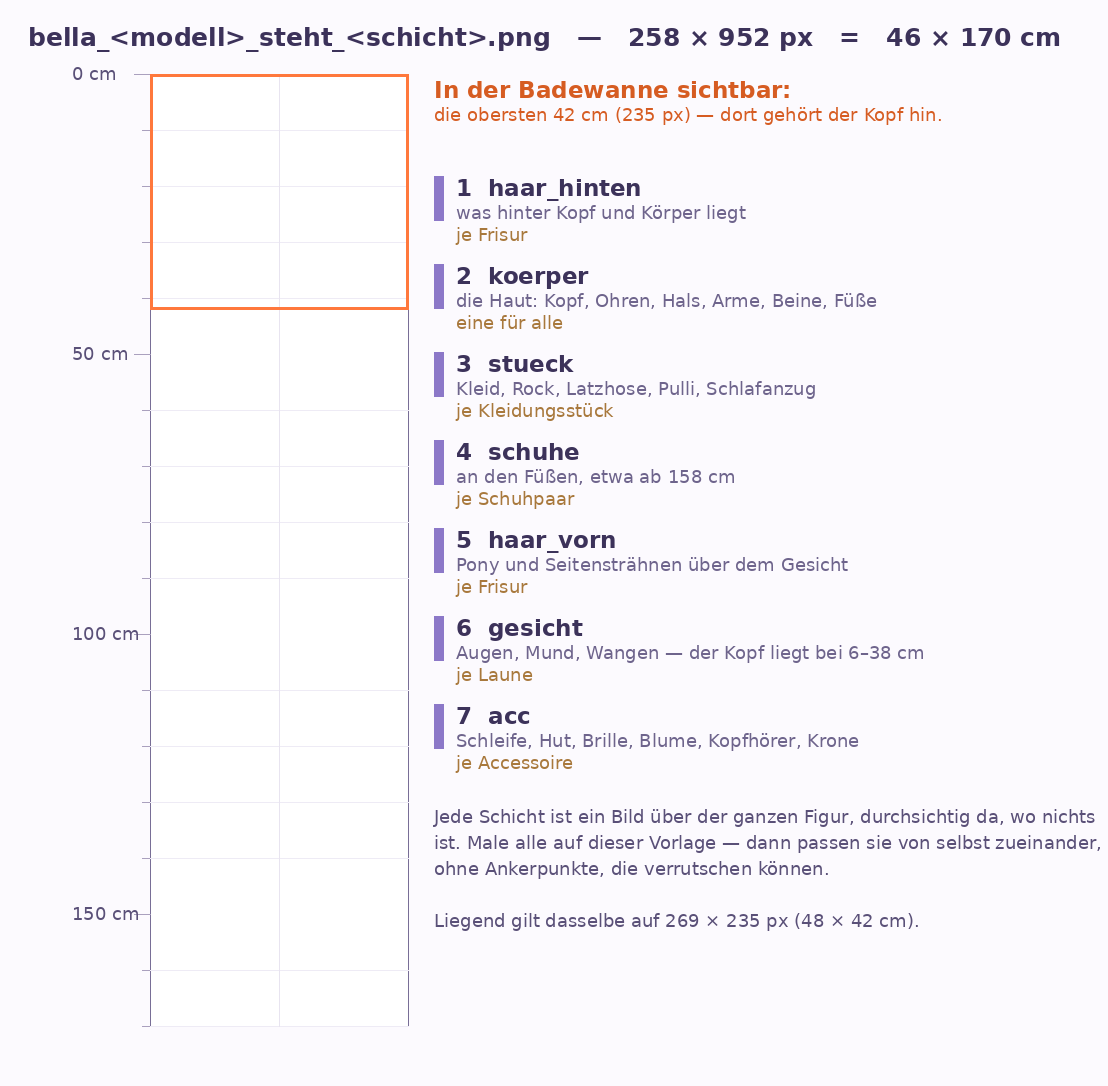
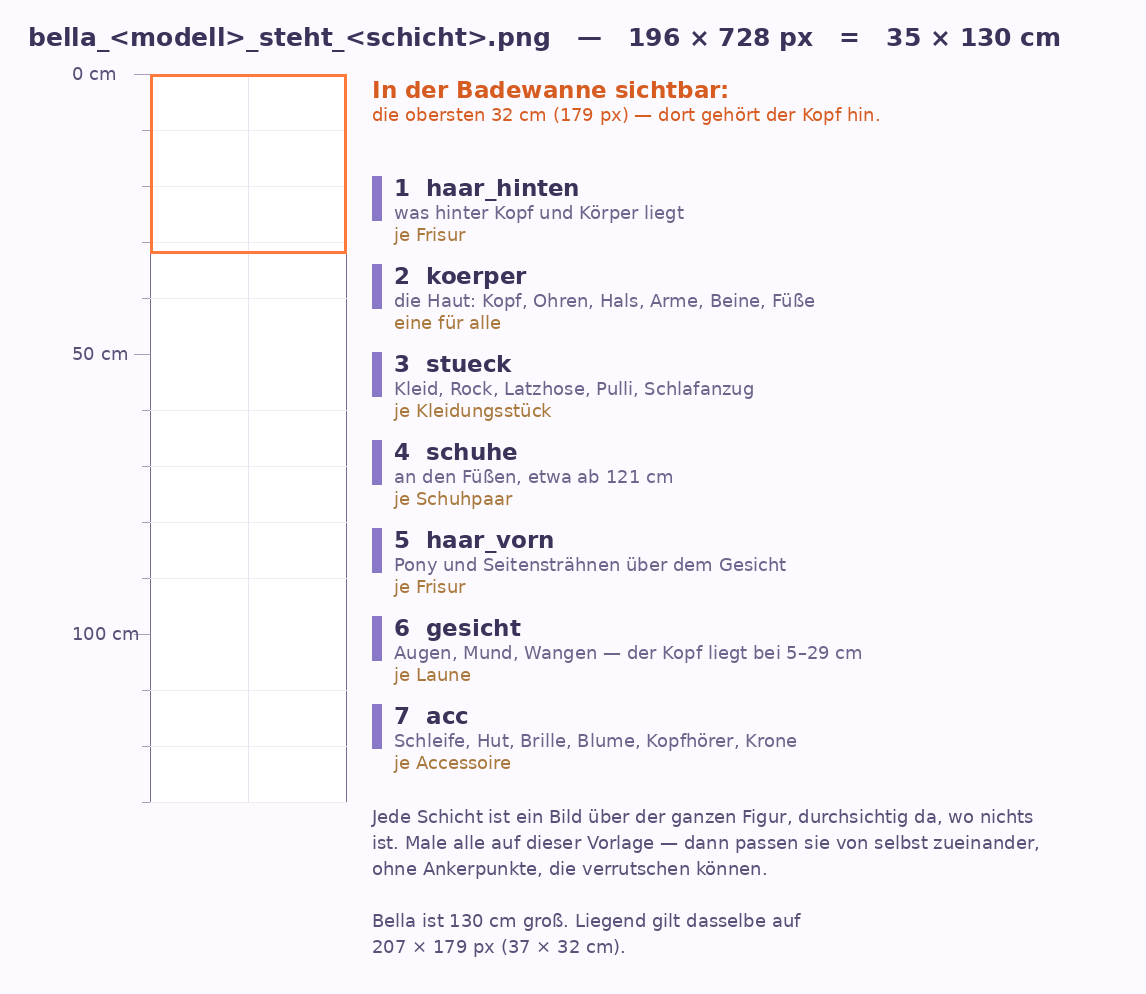
Bella ist 1,30 m groß, alles andere behält seine Zentimeter
Bella schrumpft von 170 auf 130 cm — und mit ihr nur, was zu ihr gehört:
ihre Breite (46 → 35 cm) und ihr Maß im Bett (42 → 32 cm hoch, 48 → 37
breit) folgen im selben Verhältnis, damit sie kleiner wird statt
gestaucht. Die Zeichnung rechnet ohnehin in Bella-Einheiten und wird
gleichmäßig kleiner; geändert haben sich nur die Zentimeter.

Damit wirklich nichts anderes mitgeht, hängt der Mindestausschnitt der
Bühne nicht mehr an ihrer Größe, sondern steht als eigene Zahl da
(AUSSCHNITT_MIN_CM = 170). Sonst würde er mitschrumpfen, und auf einem
flachen Bildschirm erschiene plötzlich alles andere größer — die
Gegenprobe zeigt es: das Zimmer wäre dort 945 statt 1102 cm breit.
Möbel bis 170 cm bleiben so weiter sicher im Bild.

Wo ihr Kopf im Bett liegt, hing an einer festen Zentimeterzahl, die zu
ihrer alten Breite gehörte; jetzt folgt es der Breite, sonst wäre sie
aus dem Kissen gerutscht.

Vorlagen und Maße nachgezogen: bella_steht 196 × 728 px (35 × 130 cm),
bella_liegt 207 × 179 px (37 × 32 cm), in der Wanne sind die obersten
32 cm zu sehen. uebersicht_bella.png neu gezeichnet.

Drei neue Logikprüfungen und eine Chromium-Prüfung (groesse.js), die auf
drei Bildschirmformaten nachmisst, dass Zimmerbreite, Maßstab,
Bodenlinie und Möbel sich nicht ändern, wenn man Bella zur Laufzeit auf
90 oder 170 cm setzt — statt die Formel abzuschreiben. Dazu misst
bellamodell.js jetzt, dass auch ein gemaltes Modell in ihren
Zentimetern steht (126 cm hoch) und liegt (33 × 29 cm).
[…]

diff --git a/test/run.js b/test/run.js
@@ -41,7 +41,8 @@ const { starteApp, pruefliste } = require('@bappiverse/scaffold/test/harness');
                      'bellaSchichtPlatz','bellaSchichtplaetze',
                      'WETTER','TAGESZEITEN','wetterJetzt','ausblickPlatz','zoneGilt',
                      'musikStand','musikWaehlen','musikGutschrift','musikHalten','musikAus',
-                     'musikLaeuft','musikSpielen','tanzt','tanzLage','MUSIK_LAUNE','AKTIVITAETEN']);
+                     'musikLaeuft','musikSpielen','tanzt','tanzLage','MUSIK_LAUNE','AKTIVITAETEN',
+                     'AUSSCHNITT_MIN_CM','BELLA_CM','maleBellaStehend']);
 
   /* Kochen und Abbrausen laufen jetzt über Szenen, die Zeit brauchen.
      Im Test wird die Zeit nicht abgewartet, sondern vorgespult. */
@@ -755,9 +756,9 @@ const { starteApp, pruefliste } = require('@bappiverse/scaffold/test/harness');
     const stamm = 'bella_m1_steht_stueck';
     const merk = { [stamm]: T.BILDER[stamm], [stamm + '_kleid']: T.BILDER[stamm + '_kleid'] };
     try {
-      T.BILDER[stamm] = { el:{}, b:258, h:952 };
+      T.BILDER[stamm] = { el:{}, b:196, h:728 };
       const nurAllgemein = T.bellaSchichtPlatz('m1', 'steht', 'stueck', 'kleid');
-      T.BILDER[stamm + '_kleid'] = { el:{}, b:258, h:952 };
+      T.BILDER[stamm + '_kleid'] = { el:{}, b:196, h:728 };
       const mitGenau = T.bellaSchichtPlatz('m1', 'steht', 'stueck', 'kleid');
       /* Ohne Rückfall müsste jedes Kleidungsstück gemalt sein, bevor
          überhaupt etwas zu sehen wäre. */
@@ -774,10 +775,10 @@ const { starteApp, pruefliste } = require('@bappiverse/scaffold/test/harness');
     const merk = T.BILDER[stamm];
     try {
       if (T.bellaModelleDa().length !== 1) throw new Error('es steht etwas zur Wahl, was es nicht gibt');
-      T.BILDER['bella_m2_steht_stueck'] = { el:{}, b:258, h:952 };
+      T.BILDER['bella_m2_steht_stueck'] = { el:{}, b:196, h:728 };
       if (T.bellaModelleDa().includes('m2'))
         throw new Error('ein Kleid allein macht schon ein Modell');
-      T.BILDER[stamm] = { el:{}, b:258, h:952 };
+      T.BILDER[stamm] = { el:{}, b:196, h:728 };
       if (!T.bellaModelleDa().includes('m2')) throw new Error('mit Körper fehlt das Modell trotzdem');
       return 'erst mit Körper: ' + T.bellaModelleDa().join(', ');
     } finally {
@@ -1186,11 +1187,45 @@ const { starteApp, pruefliste } = require('@bappiverse/scaffold/test/harness');
          + Math.round(kopfCm * szene.mass) + ' Punkte';
   });
 
-  await p.check('Bella ist siebenmal so hoch wie die Pflanze', () => {
+  await p.check('Bella ist gut fünfmal so hoch wie die Pflanze', () => {
     const v = T.GROESSEN_CM.bella / T.GROESSEN_CM.deko_pflanze;
-    if (T.GROESSEN_CM.bella !== 170) throw new Error('Bella: ' + T.GROESSEN_CM.bella + ' cm');
-    if (v < 6 || v > 8) throw new Error('Verhältnis: ' + v.toFixed(1));
-    return '170 cm zu 25 cm = ' + v.toFixed(1) + ':1';
+    if (T.GROESSEN_CM.bella !== 130) throw new Error('Bella: ' + T.GROESSEN_CM.bella + ' cm');
+    if (v < 4.5 || v > 6) throw new Error('Verhältnis: ' + v.toFixed(1));
+    /* Kleiner wird nur sie. Die Pflanze, der Herd und alles andere
+       behalten ihre Zentimeter — sonst wäre nichts gewonnen. */
+    if (T.GROESSEN_CM.deko_pflanze !== 25 || T.GROESSEN_CM.herd !== 85
+        || T.GROESSEN_CM.kuehlschrank !== 170 || T.ZIMMER.breiteCm !== 340)
+      throw new Error('etwas anderes hat sich mitverändert');
+    return '130 cm zu 25 cm = ' + v.toFixed(1) + ':1, Zimmer und Möbel unverändert';
+  });
+
+  await p.check('Bella ist mitgeschrumpft, nicht gestaucht', () => {
+    /* Ihre Breite und ihr Maß im Bett folgen ihrer Größe. Bliebe die
+       Breite stehen, wäre sie gedrungen statt kleiner. */
+    const form = T.BREITEN_CM.bella / T.GROESSEN_CM.bella;
+    const sollForm = 46 / 170;
+    if (Math.abs(form - sollForm) > 0.01)
+      throw new Error('das Verhältnis stimmt nicht: ' + form.toFixed(3) + ' statt ' + sollForm.toFixed(3));
+    const liegend = T.GROESSEN_CM.bella_liegt / T.GROESSEN_CM.bella;
+    if (Math.abs(liegend - 42 / 170) > 0.01)
+      throw new Error('liegend passt nicht: ' + liegend.toFixed(3));
+    return T.BREITEN_CM.bella + ' × ' + T.GROESSEN_CM.bella + ' cm stehend, '
+         + T.BREITEN_CM.bella_liegt + ' × ' + T.GROESSEN_CM.bella_liegt + ' cm liegend';
+  });
+
+  await p.check('Der Ausschnitt hängt nicht an Bellas Größe', () => {
+    /* Würde der Mindestausschnitt mit ihr schrumpfen, zeigte ein flacher
+       Bildschirm weniger Zimmer — und alles andere erschiene größer.
+       Deshalb steht die Zahl für sich und deckt Möbel bis 170 cm. */
+    if (T.AUSSCHNITT_MIN_CM !== 170)
+      throw new Error('der Mindestausschnitt steht bei ' + T.AUSSCHNITT_MIN_CM);
+    if (T.AUSSCHNITT_MIN_CM <= T.GROESSEN_CM.bella)
+      throw new Error('der Ausschnitt ist nicht größer als Bella');
+    const hoch = Object.entries(T.GROESSEN_CM)
+      .filter(([k]) => k !== 'bella' && k !== 'schrank' && k !== 'regal')
+      .filter(([, v]) => v > T.AUSSCHNITT_MIN_CM);
+    if (hoch.length) throw new Error('passt nicht mehr ins Bild: ' + hoch.map(([k]) => k).join(', '));
+    return T.AUSSCHNITT_MIN_CM + ' cm — unabhängig von Bellas ' + T.GROESSEN_CM.bella + ' cm';
   });
 
   await p.check('Eine gelieferte Grafik passt zu ihrer Eintragung', () => {
@@ -1212,7 +1247,11 @@ const { starteApp, pruefliste } = require('@bappiverse/scaffold/test/harness');
       if (f.h - band < T.GROESSEN_CM.bella)
         throw new Error('Bella ragt heraus bei ' + f.h + ' cm Bühne');
       if (band < 12) throw new Error('der Boden verschwindet: ' + band);
-      if (band > T.ZIMMER.bodenMaxCm)
+      /* Stand hier einmal `bodenMaxCm` — das gibt es in ZIMMER nicht
+         mehr, also war der Vergleich immer falsch und die Prüfung an
+         dieser Stelle wirkungslos. Beim Verkleinern von Bella ist es
+         aufgefallen. */
+      if (band > T.ZIMMER.bodenCm)
         throw new Error('der Boden ist breiter als erlaubt: ' + band);
       return f.h + ' cm → ' + band;
     });
@@ -1225,9 +1264,16 @@ const { starteApp, pruefliste } = require('@bappiverse/scaffold/test/harness');
     const formate = [[380, 420], [320, 300], [800, 320], [1200, 900]];
     const werte = formate.map(([b, h]) => {
       const form = h / b;
+      /* `bodenMinCm` gibt es in ZIMMER nicht: die Rechnung ergab NaN,
+         und damit war jede Bedingung darunter falsch — die Prüfung hat
+         nichts geprüft. Jetzt steht dieselbe Rechnung wie in
+         buehneMasse. */
       const breite = Math.max(T.ZIMMER.breiteCm,
-                              Math.ceil((T.GROESSEN_CM.bella + T.ZIMMER.bodenMinCm + 12) / form));
+                              Math.ceil((T.AUSSCHNITT_MIN_CM + T.ZIMMER.bodenCm + 12) / form));
+      if (!Number.isFinite(breite)) throw new Error('die Rechnung geht nicht auf: ' + breite);
       const hoehe = breite * form;
+      if (hoehe - T.bodenbandCm({ h: hoehe }) < T.AUSSCHNITT_MIN_CM)
+        throw new Error(b + '×' + h + ': der Mindestausschnitt passt nicht');
       if (hoehe - T.bodenbandCm({ h: hoehe }) < T.GROESSEN_CM.bella)
         throw new Error(b + '×' + h + ': Bella passt nicht');
       if (breite < 300) throw new Error(b + '×' + h + ': nur ' + breite + ' cm Zimmer');

diff --git a/www/js/app.js b/www/js/app.js
@@ -542,7 +542,10 @@ function buehneMasse(){
      nicht: das Zimmer wäre dann niedriger als Bella. Dann wird der
      Ausschnitt breiter — mehr Zimmer statt abgeschnittener Bella. */
   const form = leinwandH / leinwandB;
-  const noetig = Math.ceil((BELLA_CM + ZIMMER.bodenCm + 12) / form);
+  /* Gerechnet wird mit dem festen Mindestausschnitt, nicht mit Bellas
+     Größe: sonst würde eine kleinere Bella den Ausschnitt schrumpfen
+     lassen und alles andere im Zimmer erschiene größer. */
+  const noetig = Math.ceil((AUSSCHNITT_MIN_CM + ZIMMER.bodenCm + 12) / form);
   const b = Math.max(ZIMMER.breiteCm, noetig);
   const mass = leinwandB / b;
   return {
@@ -1056,7 +1059,7 @@ const BELLA_LAUNEN = ['normal', 'froh', 'traurig', 'satt', 'schlaef'];
    Maß, liegend das des Kopfkissenbildes. */
 const BELLA_POSE_MASS = {
   steht: { b: BREITEN_CM.bella,  h: GROESSEN_CM.bella },
-  liegt: { b: 48,                h: GROESSEN_CM.bella_liegt },
+  liegt: { b: BREITEN_CM.bella_liegt, h: GROESSEN_CM.bella_liegt },
 };
 
 /* Die Schichten von hinten nach vorn. `wahl` sagt, welche Fassung
@@ -1658,7 +1661,11 @@ function maleBellaImBett(ctx, s, mx, oberkante, rechtsBis){
   const lage = DATA.bella.schlaeft ? schlaflage() : SCHLAFLAGEN[0];
   const liegtCm = GROESSEN_CM.bella_liegt;
   const unten = oberkante + 8;
-  const kopfX = mx - 30 + lage.dx, kopfY = unten - liegtCm + lage.dy;
+  /* Ihr Kopf liegt ein Stück links von der Mitte der Liegefläche — das
+     hing an ihrer Breite und stand hier als feste Zahl. Seit sie kleiner
+     ist, folgt es der Breite, sonst rutschte sie aus dem Kissen. */
+  const liegtBreit = BREITEN_CM.bella_liegt;
+  const kopfX = mx - liegtBreit / 2 - 6 + lage.dx, kopfY = unten - liegtCm + lage.dy;
 
   // Unbedeckt einen Ton dunkler als die Matratze, sonst verschwände der
   // Körper darin und es läge nur ein Kopf auf dem Bett.
@@ -1688,7 +1695,7 @@ function maleBellaImBett(ctx, s, mx, oberkante, rechtsBis){
         && maleBellaSchichtbild(ctx, s, 'liegt', kopfX, kopfY, liegtCm,
                                 ['bella_liegt'], lage.spiegel));
   if (!gemaltLiegend)
-    maleBellaLiegend(ctx, s, kopfX, kopfY, liegtCm * 48 / 42, liegtCm,
+    maleBellaLiegend(ctx, s, kopfX, kopfY, liegtBreit, liegtCm,
                      { haar: HAARFARBE, spiegel: lage.spiegel });
 }
 
@@ -2984,8 +2991,9 @@ function fensterEinstellungen(){
     blatt.appendChild(h('div', { class:'leer', text: modelle.length > 1
       ? 'Gemalte Modelle liegen in Schichten: Haar hinten, Körper, Kleidungsstück, '
         + 'Schuhe, Haar vorn, Gesicht, Accessoire — jede Schicht über der ganzen Figur.'
-      : 'Noch kein gemaltes Modell. Es braucht mindestens bella_m1_steht_koerper.png '
-        + '— 258 × 952 Punkte, also 46 × 170 cm.' }));
+      : 'Noch kein gemaltes Modell. Es braucht mindestens bella_m1_steht_koerper.png — '
+        + sollPunkte(BREITEN_CM.bella) + ' × ' + sollPunkte(GROESSEN_CM.bella)
+        + ' Punkte, also ' + BREITEN_CM.bella + ' × ' + GROESSEN_CM.bella + ' cm.' }));
 
     /* Das Wetter vor dem Fenster. Die Tageszeit kommt von der Uhr, das
        Wetter kann die App nicht wissen — hier stellt man es auf das

diff --git a/www/js/massstab.js b/www/js/massstab.js
@@ -59,11 +59,24 @@ const ZIMMER = {
 /* Wie hoch die Dinge wirklich sind, in Zentimetern — und wie breit.
    Beides wird gebraucht: aus dem Verhältnis ergibt sich die Form, und
    an der Höhe hängt der Maßstab. */
-const BELLA_CM = 170;
+
+/* Bella ist 1,30 m groß. Mit ihr schrumpft nur sie: ihre Breite und ihr
+   Maß im Bett folgen im selben Verhältnis, damit sie nicht gestaucht
+   wird — alles andere im Zimmer behält seine Zentimeter. */
+const BELLA_CM = 130;
+
+/* Wie hoch der gezeigte Ausschnitt mindestens sein muss. Das war einmal
+   Bellas Größe. Seit sie kleiner ist, steht die Zahl für sich: hinge sie
+   an Bella, würde der Ausschnitt mitschrumpfen — und auf einem flachen
+   Bildschirm erschiene dann plötzlich alles andere größer. Möbel bis
+   170 cm bleiben damit sicher im Bild. */
+const AUSSCHNITT_MIN_CM = 170;
 
 const GROESSEN_CM = {
   bella:        BELLA_CM,
-  bella_liegt:  42,
+  /* Im Bett ist von ihr Kopf und eine Schulter zu sehen: das sind
+     42 der 170 Bella-Einheiten, also 130 × 42/170. */
+  bella_liegt:  Math.round(BELLA_CM * 42 / 170),
   deko_pflanze: 25,
 
   bett:         55,
@@ -99,7 +112,11 @@ const GROESSEN_CM = {
 /* Breiten, wo die Form nicht aus der Höhe folgt. Steht hier nichts,
    wird die Breite aus dem Seitenverhältnis des Platzhalters genommen. */
 const BREITEN_CM = {
-  bella:        46,
+  /* 46 cm bei 170 cm Größe, im selben Verhältnis mitgeschrumpft. Die
+     Zeichnung selbst rechnet in Bella-Einheiten und wird gleichmäßig
+     kleiner; diese Zahl sagt nur, wie breit ihr Standplatz ist. */
+  bella:        Math.round(BELLA_CM * 46 / 170),
+  bella_liegt:  Math.round(BELLA_CM * 48 / 170),   // liegend ist sie breiter als hoch
   deko_pflanze: 21,       // 120 Punkte breit bei 5,6 Punkten je cm
 
   bett:         200, fenster: 90,  lampe: 40,  nachttisch: 45,

diff --git a/www/bilder/LIESMICH.md b/www/bilder/LIESMICH.md
@@ -64,7 +64,7 @@ Stimmt die Höhe der Datei nicht mit der Eintragung überein, sagt
 | `fenster` | 110 cm | 90 cm | 616 px hoch × 504 px breit |
 | `lampe` | 150 cm | 40 cm | 840 px hoch × 224 px breit |
 | `kuehlschrank` | 170 cm | 60 cm | 952 px hoch × 336 px breit |
-| `bella` | 170 cm | 46 cm | 952 px hoch × 258 px breit |
+| `bella` | 130 cm | 35 cm | 728 px hoch × 196 px breit |
 | `regal` | 180 cm | 90 cm | 1008 px hoch × 504 px breit |
 | `schrank` | 190 cm | 110 cm | 1064 px hoch × 616 px breit |
 
@@ -211,18 +211,22 @@ Vorlage, dann triffst du auf den Punkt.
 
 ### Die Flächen
 
+Bella ist **1,30 m** groß. Alles andere im Zimmer behält seine
+Zentimeter — nur sie ist kleiner geworden, in Höhe und Breite im selben
+Verhältnis.
+
 | Haltung | Zentimeter | Datei muss sein |
 |---|---|---|
-| `steht` | 46 × 170 cm | **258 × 952 px** |
-| `liegt` | 48 × 42 cm | **269 × 235 px** |
+| `steht` | 35 × 130 cm | **196 × 728 px** |
+| `liegt` | 37 × 32 cm | **207 × 179 px** |
 
-Vorlagen liegen in `vorlagen/bella_steht_258x952.png` und
-`vorlagen/bella_liegt_269x235.png`. Zum Draufschauen beim Malen gibt es
+Vorlagen liegen in `vorlagen/bella_steht_196x728.png` und
+`vorlagen/bella_liegt_207x179.png`. Zum Draufschauen beim Malen gibt es
 `vorlagen/uebersicht_bella.png`: das Zentimeterraster, der Ausschnitt,
 den die Badewanne zeigt, und was auf welche Schicht gehört.
 
 In der Badewanne wird nur der obere Teil der stehenden Figur gezeigt:
-die obersten **42 von 170 cm**, also die obersten 235 Punkte. Dorthin
+die obersten **32 von 130 cm**, also die obersten 179 Punkte. Dorthin
 gehört der Kopf. Abgeschnitten wird beim Zeichnen, nicht in der Datei —
 du malst immer die ganze Figur.
 
@@ -274,8 +278,8 @@ ein Kleid ohne Trägerin übrig — dann bleibt es bei der gezeichneten.
 
 ### Nur eine Datei statt Schichten
 
-Wer gar nicht schichten will, legt `bella_steht.png` (258 × 952) und
-`bella_liegt.png` (269 × 235) ab. Die gelten dann für alles — Garderobe,
+Wer gar nicht schichten will, legt `bella_steht.png` (196 × 728) und
+`bella_liegt.png` (207 × 179) ab. Die gelten dann für alles — Garderobe,
 Frisur und Laune ändern daran nichts, sie stecken ja im Bild.
 
 ## Fenster — der Ausblick
